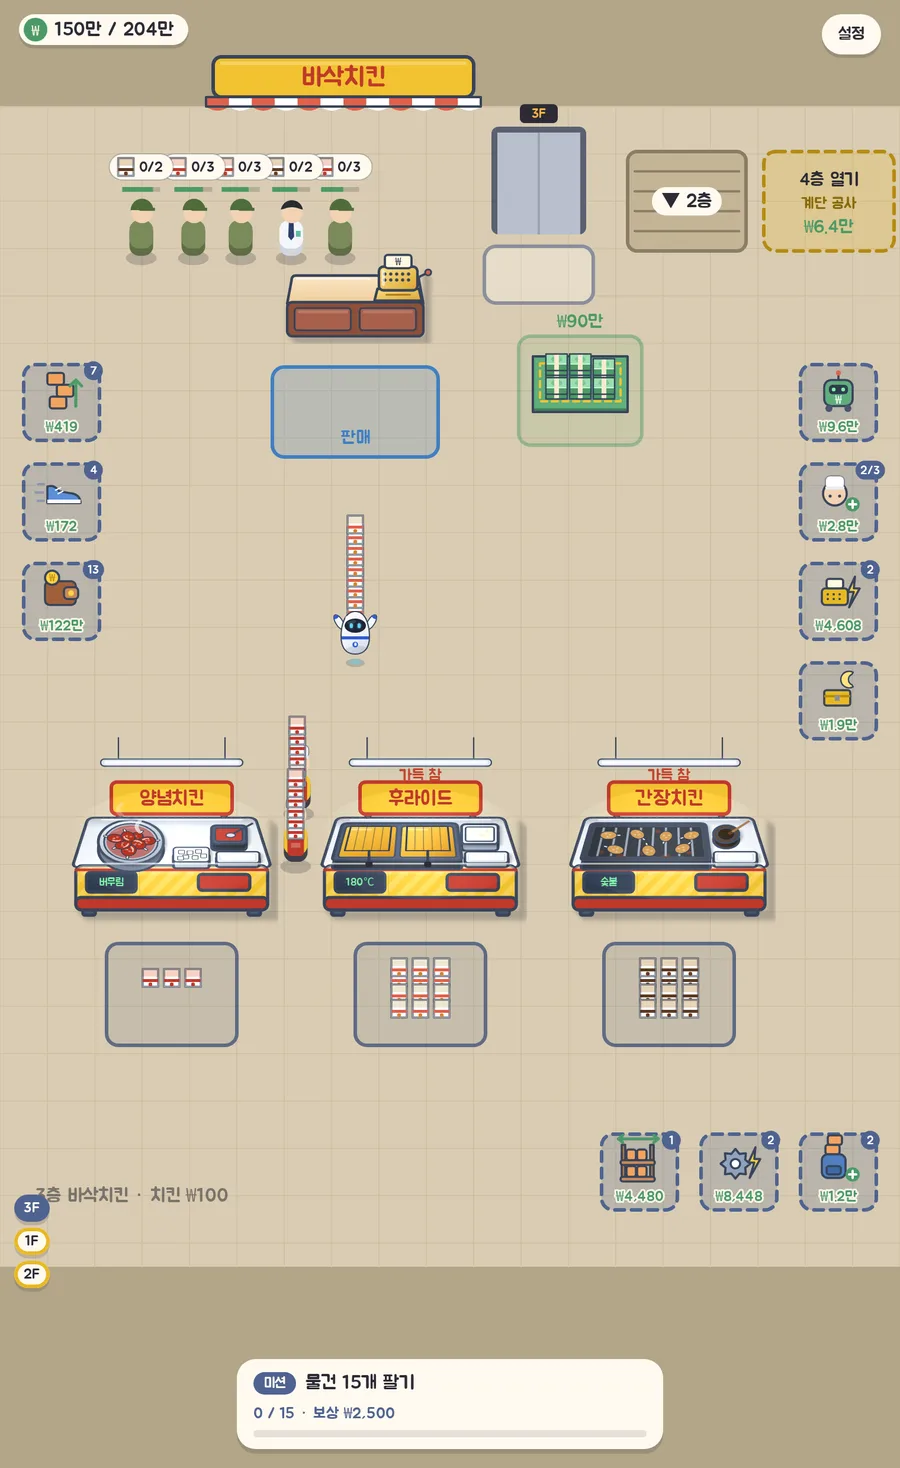
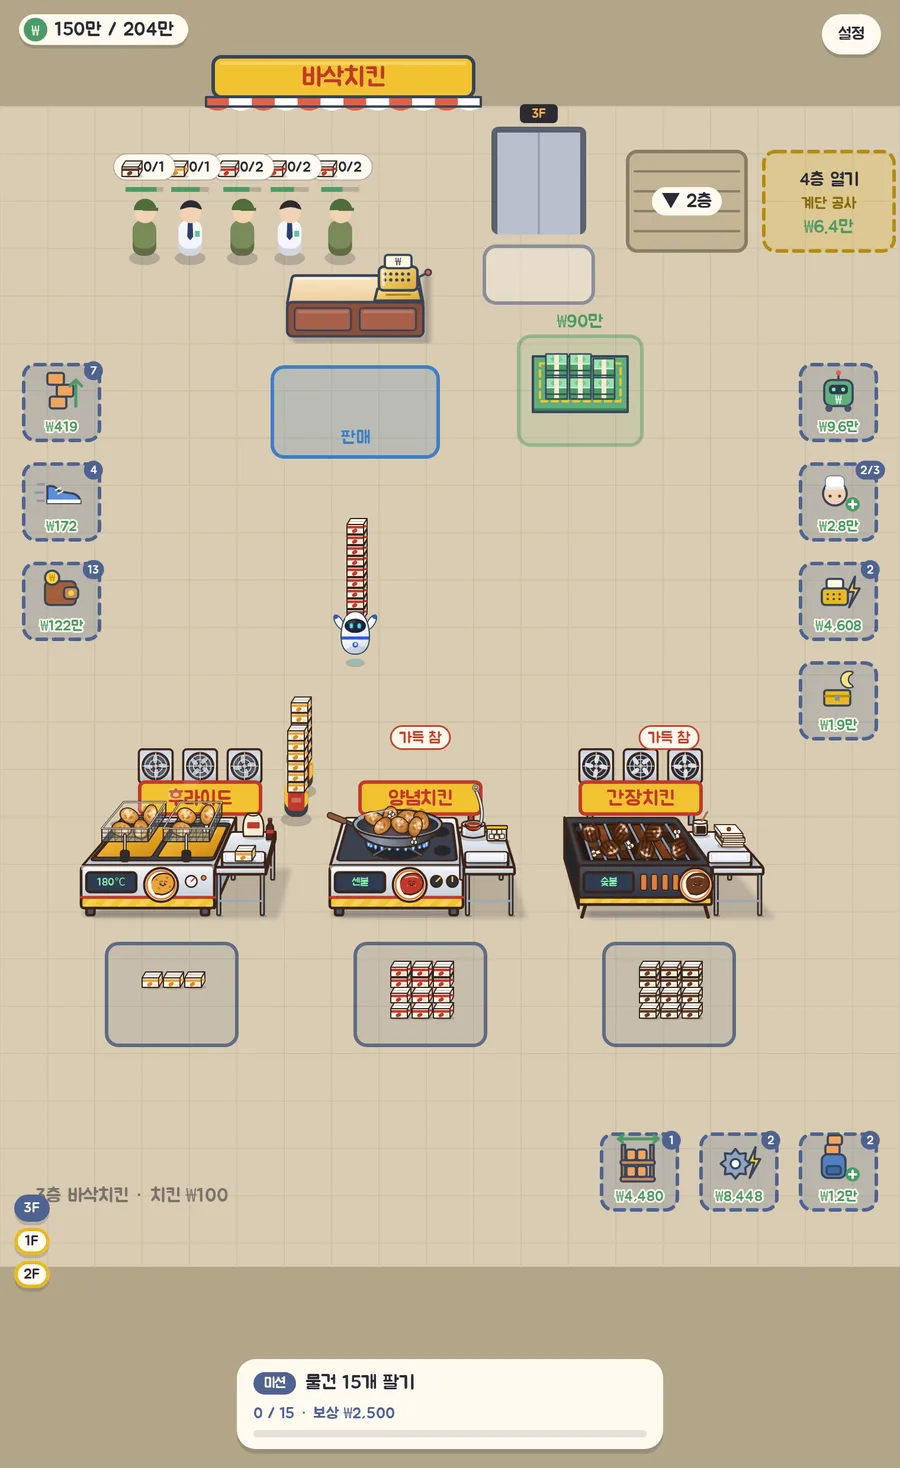
층층이: 3층 치킨 마무리 — 소개 캡처 다시 찍기, apps.ts 3층 설명·소개 메뉴 순서, 진행 중 메모를 히스토리로

diff --git a/app/data/apps.ts b/app/data/apps.ts
@@ -373,7 +373,7 @@ export const apps: App[] = [
 • 생산기는 넓은 작업대라 철판·틀·그릇 속이 다 보여요. 2~6층은 비스듬히(45도) 내려다본 모습이라 뒤로 갈수록 좁아지고, 편의점·한강라면·찜질방은 진짜 기계(냉장고·찜기·라면 조리기·가마)가 작업대 위에 서 있어요. 다 만들어지면 앞 오른쪽 쟁반에 '딩' 하고 올라가요. 층마다 조명도 달라요(분식 빨간 갓 전등 · 붕어빵 전구줄 · 치킨·편의점 형광등 · 한강 요정 전구 · 뷰티 화장대 전구 · 한복 청사초롱 · 박물관 스포트라이트).
 • 1층 층층분식: 떡볶이 철판(국자로 컵에 담기) · 김밥 말이대(김발로 말아 썰기) · 순대 찜통(뚜껑이 덜컹, 도마에서 썰기)
 • 2층 따끈 붕어빵: 반원 아치 천막 겨울 노점, 세 대 생김새가 다 달라요 — 호떡 손수레(반죽 공을 누르개로 꾹 → 가장자리가 볼록한 노릇한 호떡) · 붕어빵 둥근 드럼(뚜껑 달린 붕어 틀이 빙글 돌며 반죽 → 팥 → 탁 덮고 굽기, 옆 철망 진열대에 붕어빵이 줄줄이) · 계란빵 스테인리스 기계 두 대(양쪽 판에 반죽, 한쪽에 달걀 → 판을 책처럼 덮었다 열면 봉긋 부푼 계란빵)
-• 3층 바삭치킨: 양념 버무림 볼(빙글빙글 + 국자로 양념) · 후라이드 튀김기 두 칸(기름 보글 → 바구니 탈탈) · 간장 숯불 석쇠(붓으로 쓱쓱) — 집게로 쟁반에
+• 3층 바삭치킨: 후라이드 전기 튀김기(철망 바구니가 기름에 퐁당 → 쑥 올라와 탈탈) · 양념 가스레인지 웍(국자로 양념 주르륵 → 웍 흔들어 버무림) · 간장 숯불 화로(붓으로 쓱쓱) — 위엔 환풍기가 빙글빙글, 집게로 쟁반에
 • 4층 24시 층층편의점: 핫바 온장 케이스(열선 아래 롤러에서 데굴데굴 노릇) · 바나나우유 유리문 냉장고(선반에 한 칸씩 채우기) · 둥근 호빵 찜기(호빵이 부풀고 김 서림)
 • 5층 한강라면: 편의점 즉석 라면 조리기 3대 — 은박 용기에 면 → 꼭지에서 물 → 인덕션에서 보글보글 + 달걀·파(타이머 3:00), 옆엔 봉지라면 진열대
 • 6층 ♨ 층층 찜질방: 황토 불가마 맥반석 계란(아궁이 불 속에서 노릇 → 빨간 망에 셋) · 살얼음 식혜 기계(밥알이 빙빙 돌고 살얼음 → 컵에 졸졸) · 팥빙수(빙수기에서 눈꽃 얼음 → 팥·인절미·콩가루·연유). 찜질복 입은 손님과 관광객이 와요

diff --git a/app/components/StackGuide.vue b/app/components/StackGuide.vue
@@ -68,7 +68,7 @@ const steps = [
 const floors = [
   { n: 1, shop: '층층분식', menu: '떡볶이 · 김밥 · 순대' },
   { n: 2, shop: '따끈 붕어빵', menu: '호떡 · 붕어빵 · 계란빵' },
-  { n: 3, shop: '바삭치킨', menu: '양념 · 후라이드 · 간장' },
+  { n: 3, shop: '바삭치킨', menu: '후라이드 · 양념 · 간장' },
   { n: 4, shop: '24시 층층편의점', menu: '핫바 · 바나나우유 · 호빵' },
   { n: 5, shop: '한강라면', menu: '즉석 라면 조리기' },
   { n: 6, shop: '♨ 층층 찜질방', menu: '맥반석 계란 · 식혜 · 팥빙수' },

diff --git a/CLAUDE.md b/CLAUDE.md
@@ -75,18 +75,14 @@ version: 'x.y.z+build'
   테마는 6층까지(사용자 확정) → 2026-10-21 7층 층층 뷰티·8층 층층 한복대여·9층 층층 박물관 굿즈샵 추가 → 2026-10-23 10층 층층 야구장 매점, 11층부터 원래 스타일(3D 프린터 + KINDS 기본 물건). THEMES에 층을 더하면 프린터가 자동으로 위로 밀림. 실제 브랜드명·로고는 쓰지 않음.
   제목 '층층이'(부제 '쌓고 팔고, 빨리빨리!') 확정. 시안: 자료실 '층층이_상가건물시안'·'층층이_1-3층가게시안'
 
-## 진행 중 — 3층 치킨 다시 만들기 (2026-10-23, 커밋만·푸시 안 함)
-새 세션에서 "3층 이어서"라고 하면 여기부터. 테스트 페이지: `python3 scripts/stack-test/make_test.py` → 자료실 '층층이_생산기테스트.html', 3F → '셋 다'/'왼쪽'·'가운데'·'오른쪽' + '확대'.
-- 끝낸 것: 몸통 `machine3(kind)` — 왼쪽 후라이드 = 전기 튀김기(fryer, 메뉴판 위 환풍기 셋 `FAN3`) · 가운데 양념 = 네모 가스레인지 위 둥근 웍(range, `WOK3` — 사용자: 드럼이 이상 → 웍, 1층 떡볶이 국자 `ladle`로 옆 양념 냄비 `PROP3.pot`/`POT3`에서 떠서 붓고 웍 흔들며 버무림) · 오른쪽 간장 = 숯불 화로(brazier, 덕트 → 환풍기 셋 — 사용자: 간장도 환풍기, 치킨 상자 `PROP3.boxes`는 상판 원근(TP)으로 다시 그림).
-  원근 `mach[k].vo` ±VOFF, 그림자 `gsh`(바닥 하나), 보조 테이블(다리 넷 + 시점 쪽 옆면, 기계 다음에 그림), 앞판 닭다리 캐릭터 `ICON3`, 치킨 상자 두께(띠: 후라이드 노랑·양념 빨강·간장 갈색, vars 순서 = 생산기 순서).
-  치킨 그림 `chick()` = 울퉁불퉁 튀김옷 덩어리·닭다리, 화면 좌표로(unsq + `Q3(R2)` — 납작 방지). 튀김 바구니 = 철망 상자(바닥·앞·옆 격자, 들면 30u), 집게는 하나만 가져감.
-- 사용자 지적 이력: 큰 공통 후드 → 일률적·머리 무거움으로 뺌 / 튀김기 후드가 낮아 들어 올린 바구니가 후드에 가림 → 후드 빼고 메뉴판 위 네모 환풍기 셋(`FAN3.xs`·`fan3`, 사용자 '2~3개' → 3개, 날개 돌고 튀김 김이 빨려 들어감, 고장 = 멈춤, 형광등 `LAMPS.hood` 삭제, 자료실 '층층이_3층환풍기_2개3개_20261023.png') / 치킨이 점처럼 작고 납작 / 바구니가 철망으로 안 보임 / 보조 테이블 구도 이상.
-- 남은 것(사용자와 하나씩 확인 중): 양념 웍(국자 자루 오른쪽 `ladle(..., flip)`)·간장 환풍기/상자 사용자 확인(자료실 '층층이_3층양념_웍_20261023.png'·'층층이_3층간장_환풍기_상자_20261023.png') → 간장 석쇠·붓 → 전체 원근·그림자·잘림 확대 확인 → 소개 캡처(`cap_scenes.py` → `to_webp.py`)·apps.ts 3층 설명·히스토리 → 커밋·푸시.
-- 규칙: 층마다·기계마다 몸통 다르게, 원근 기본, 확대 캡처로 잘림·그림자·겹침 확인 후 보여 줄 것(기억 stack-machine-perspective-rule).
-
 ## 작업 히스토리
 
 ### 2026-10-23
+- 층층이 3층 치킨 다시(사용자와 하나씩 맞춤, 2층처럼 기계마다 몸통 다르게 `machine3(kind)` + 원근 `mach[k].vo` ±VOFF·0): 왼쪽 후라이드 = 전기 튀김기(fryer) — 철망 바구니(바닥·앞·옆 격자, 들면 30u)가 기름에 잠겼다 쑥 올라와 기름 똑똑, 집게로 쟁반 ·
+  가운데 양념 = 네모 가스레인지(range, 큰 화구 + 무쇠 받침 네 갈래·파란 불꽃, `WOK3`) 위 둥근 웍 — 1층 떡볶이 국자(`ladle(..., flip)` 자루 오른쪽, 사용자 요청)로 옆 테이블 양념 냄비(`PROP3.pot`/`POT3`)에서 떠서 주르륵 → 웍 흔들며 치킨 톡톡 → 빨갛게·깨 (예전 빨간 A자 받침 버무림 드럼 `MIX3`는 사용자: '엄청 이상' → 삭제) ·
+  오른쪽 간장 = 숯불 화로(brazier) 석쇠·붓. 지붕: 큰 공통 후드 → 튀김기 작은 후드(들어 올린 바구니가 가려짐, 사용자) → 메뉴판 위 네모 환풍기 셋(`FAN3`/`fan3`, 날개 회전·박자 조금씩 다르게, 김·연기가 빨려 들어감, 고장 = 멈춤, 가득 참 = 천천히) — 튀김기·화로 같이(덕트 삭제), 웍은 기둥 둘.
+  환풍기 날개 자리는 `fanAt`(틀처럼 VO만큼만 옮김 — pvx를 쓰면 양옆 날개가 가운데로 쏠림). 보조 테이블(다리 넷 + 시점 쪽 옆면), 치킨 그림 `chick()`(울퉁불퉁 튀김옷·닭다리, 화면 좌표 + `Q3`), 치킨 상자 더미 `PROP3.boxes`는 바닥 네 모서리를 상판 원근(TP)으로(사용자: 방향 제대로), 앞판 닭다리 캐릭터 `ICON3`.
+  소개 캡처 전부 다시(cap_main·cap_scenes → to_webp, spots 그대로), apps.ts 3층 설명·StackGuide 메뉴 순서. 자료실 '층층이_3층양념_웍_20261023.png'·'층층이_3층간장_환풍기_상자_20261023.png'·'층층이_3층환풍기_날개맞춤_20261023.png'
 - 층층이 1층 김밥 밥을 주걱으로(사용자 요청): 밥통에 꽂힌 막대 → 진짜 밥주걱 `paddle()`(넓적한 머리 + 나무 자루, 밥 덩이), 밥통에서 한 덩이 떠서(6~10%) → 김 위로 → 좌우로 문지르며 앞에서 뒤로 펴기(13~22%, 밥이 깔리는 만큼 덩이 줄어듦) → 밥통으로. 자료실 '층층이_1층김밥_주걱_20261023.png'
 - 층층이 2층 다시(사용자와 여러 차례 맞춤): 생산기 몸통을 기계마다 다르게(`machine2(kind)` — 사용자: '생산기가 일률적이라 어색') — 호떡 = 손수레(deck) · 붕어빵 = 둥근 드럼(`drum`, 원판 왼쪽 + 오른쪽 철망 진열대를 한 묶음으로 가운데) · 계란빵 = 스테인리스 상자 기계(`box`, 앞 조작판 타이머·스위치).
   공통: 반원 아치 주황 천막 + 말아 올린 비닐(`archRoof`, 전구 `LAMPS.arch`), 앞판 캐릭터(`EMB2`/`ICON2`), 외곽선 `INK`, 서 있는 소품(`PROP2`: 반죽 볼·병·놋쇠 막걸리 주전자·달걀판 — 시점 따라 기울기), 그림 칸 -24~264로 넓힘(`vx`/`vw`, 잘림 방지),
